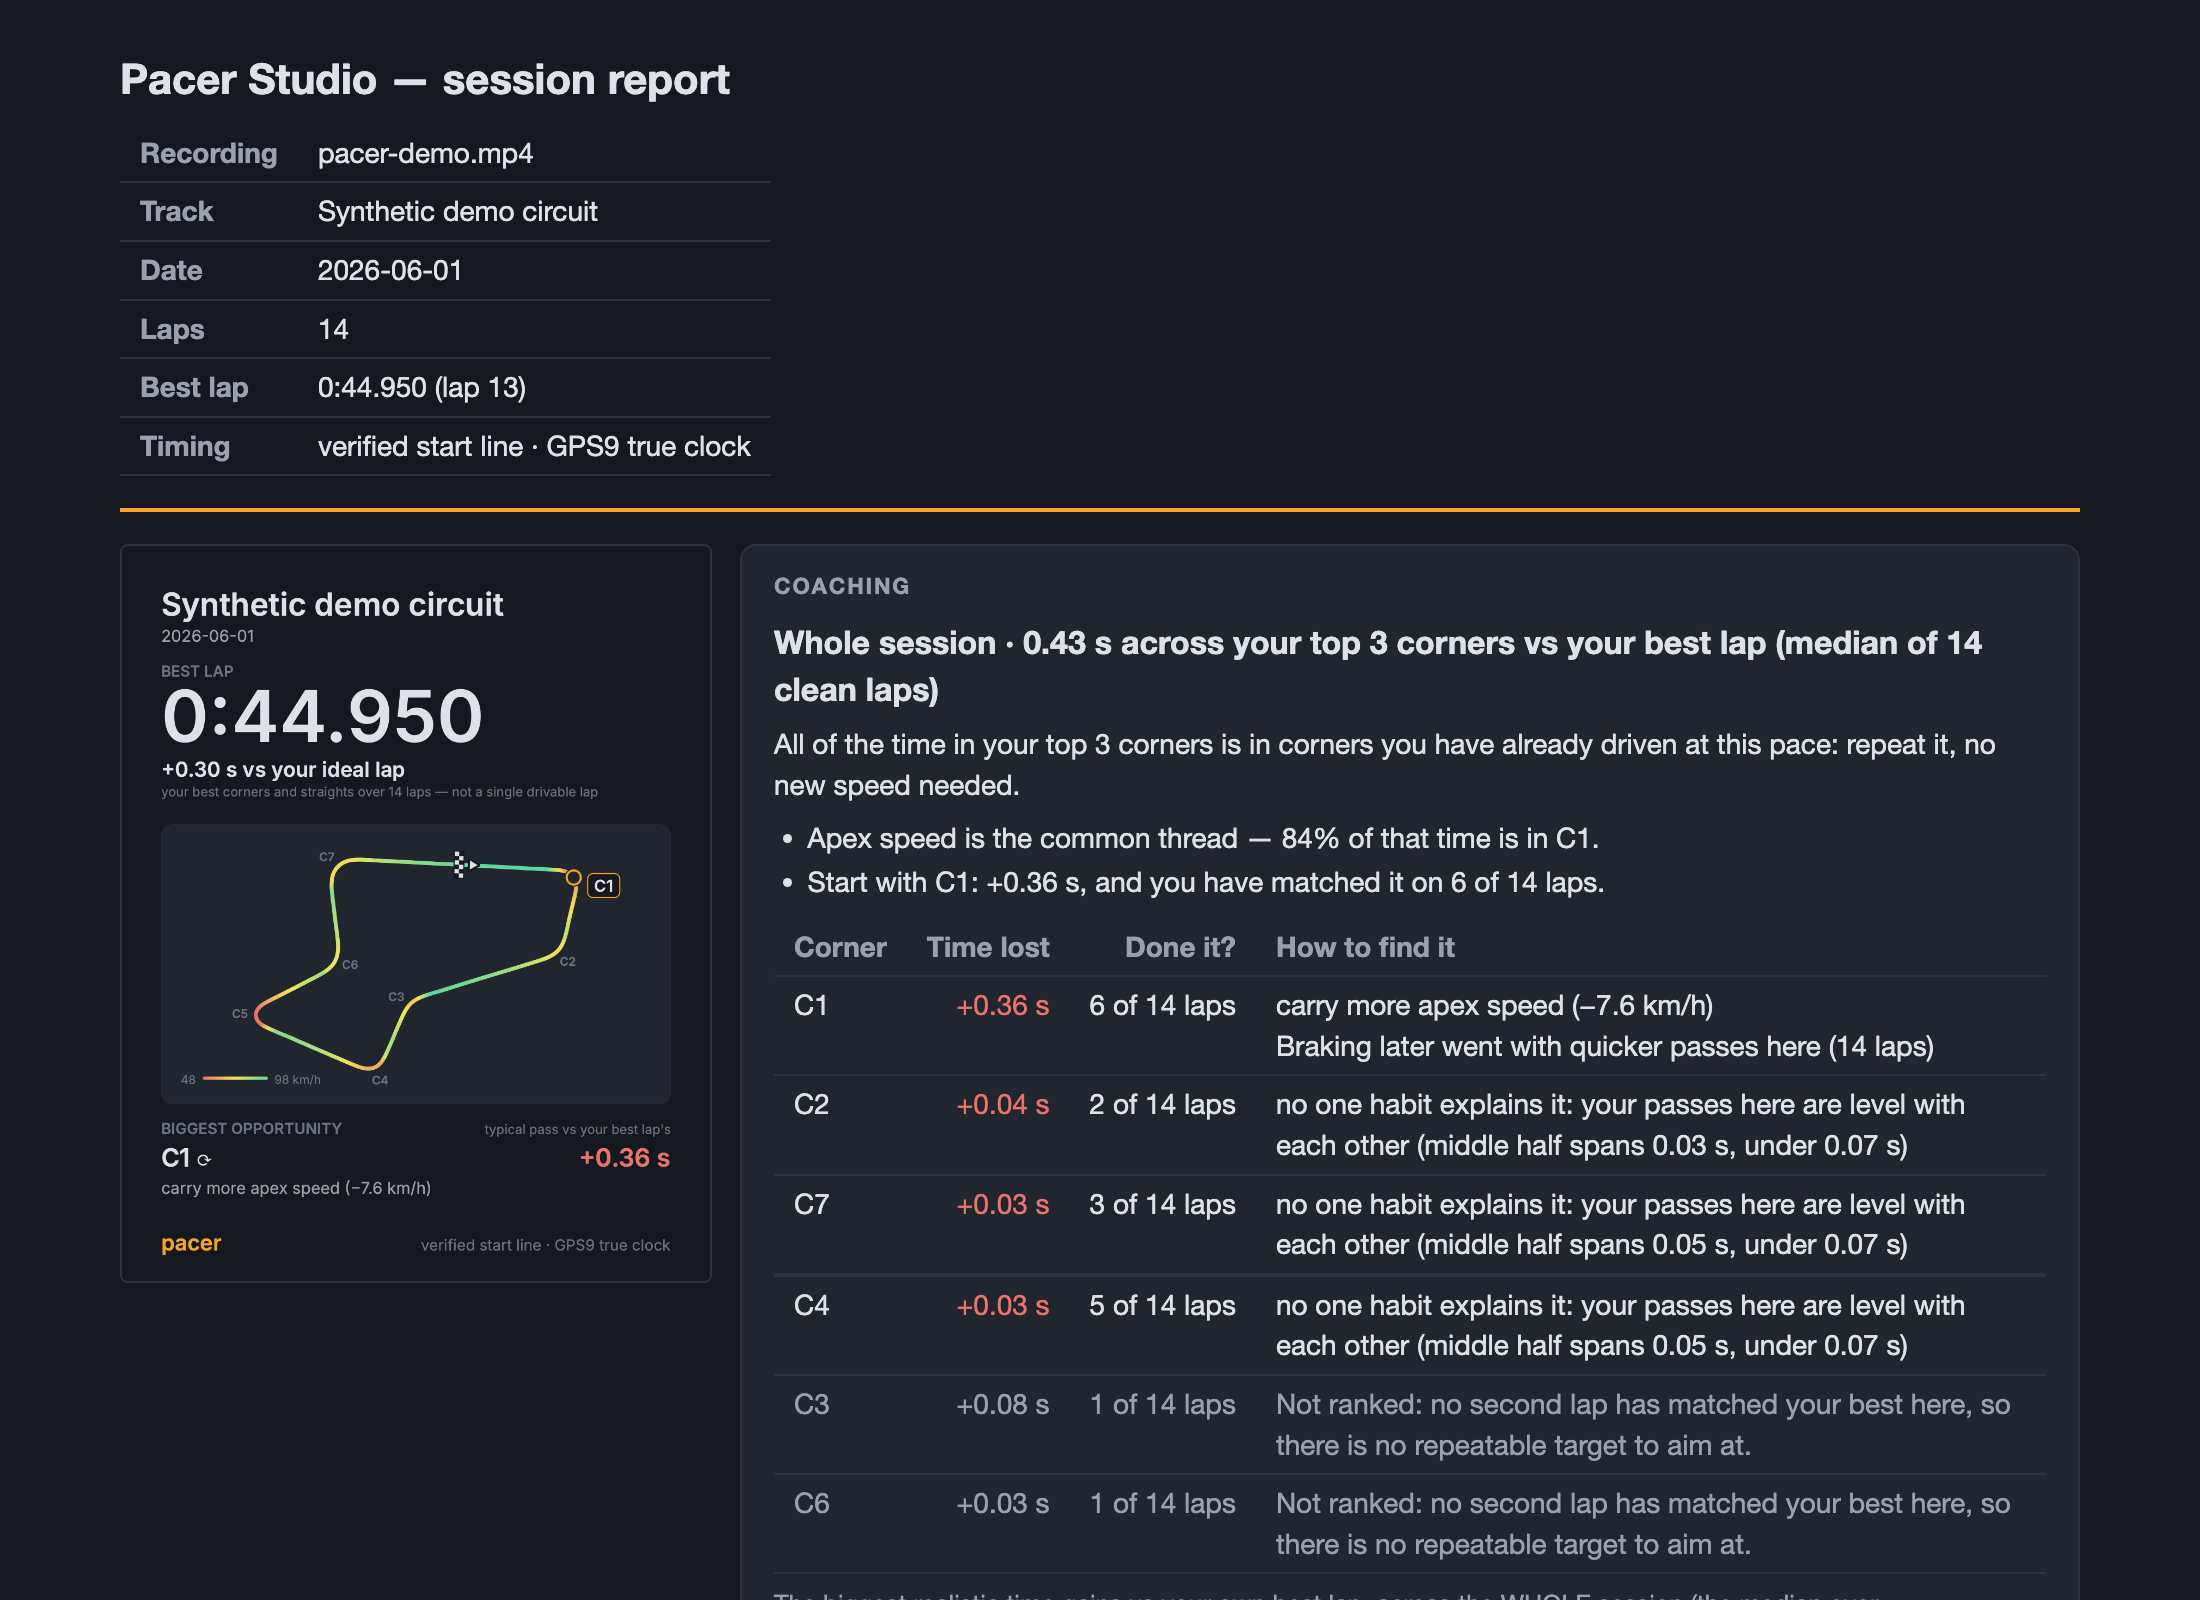
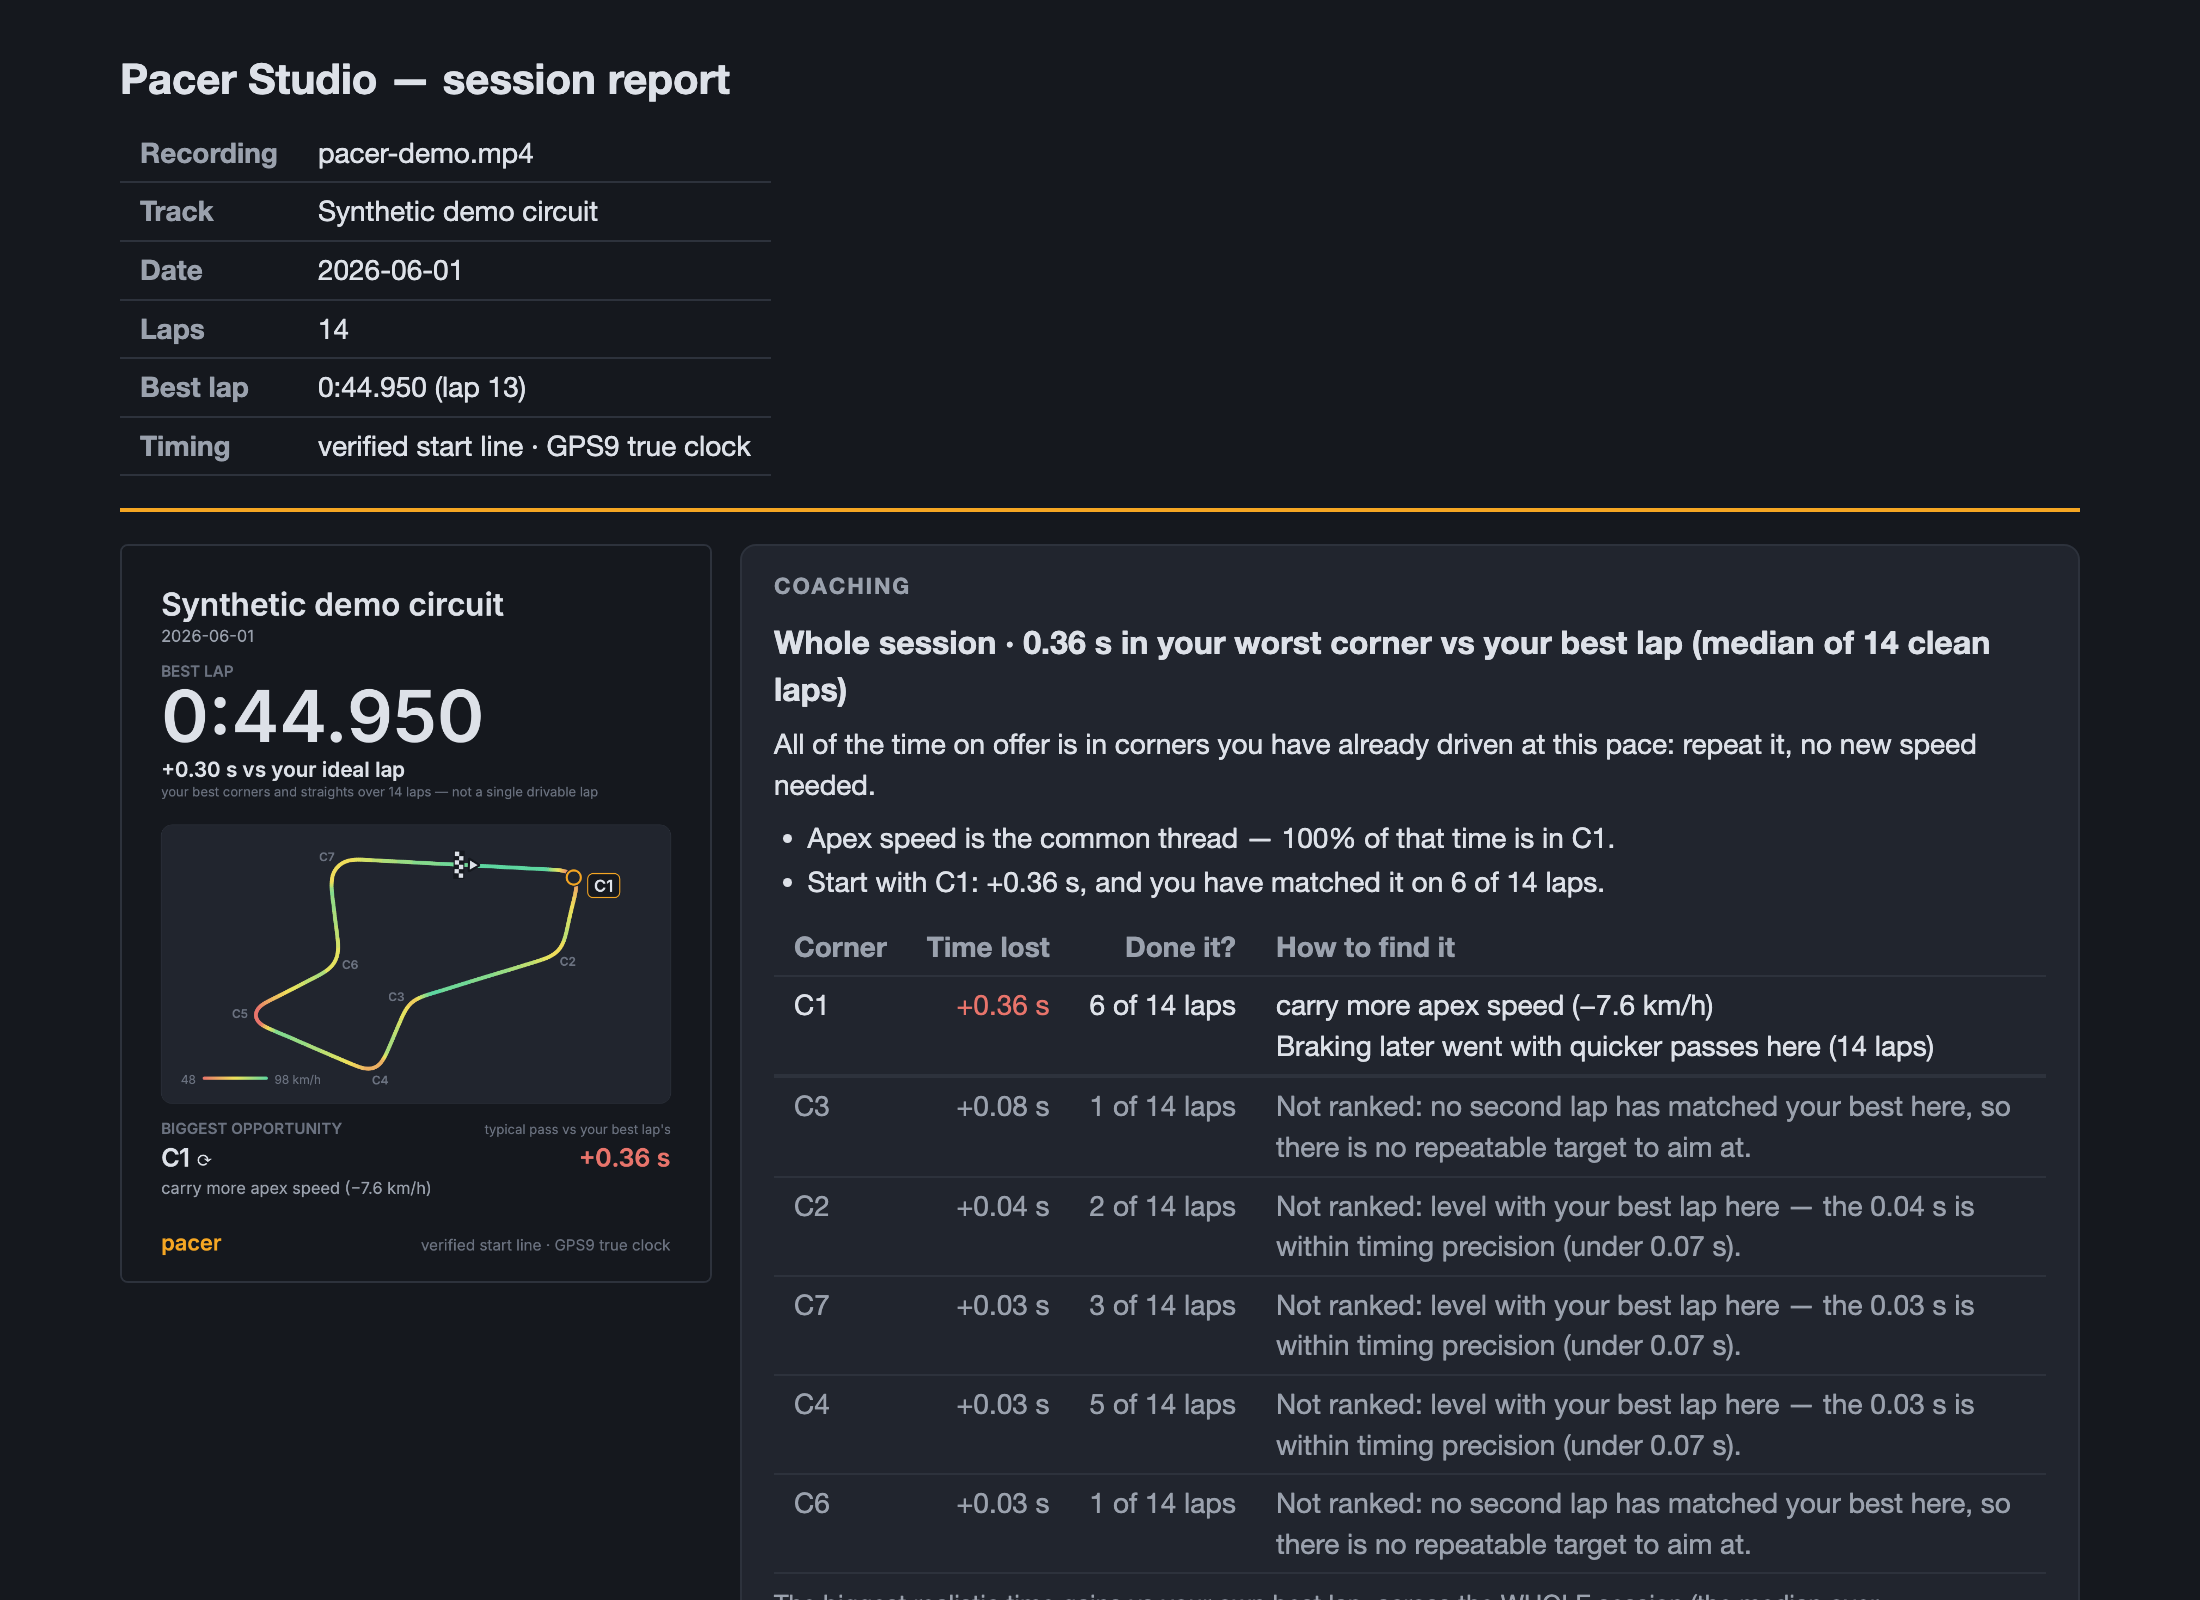
release 0.29.0: re-capture the demo stills, renew the waivers, true alt text
debrief.png and report.png change with #740 (one ranked corner), hero.png,
og.png and quickest.png with #737 (the GPS strip's hatched poor seconds,
64 px); map, moments, accuracy and lapstrip re-captured byte-identical.
The real-footage waivers are renewed with 0.29.0 A/Bs (export, ideal-lap
and data-trust demo renders byte-identical to v0.28.0's). The debrief and
report alts describe the new pictures; FIRST_LAP says a session with no
corner past the step opens on the four panels.

diff --git a/docs/index.html b/docs/index.html
@@ -476,7 +476,7 @@
       </figure>
       <figure class="figure">
         <img src="media/report.png" width="2200" height="1600" loading="lazy" decoding="async"
-             alt="The first screen of the synthetic demo's session report: the recording, track, date, 14 laps, best lap 0:44.950 (lap 13) and verified timing; the lap card with +0.30 s to the ideal lap and C1 +0.36 s as the biggest opportunity; and COACHING: 0.43 s across your top 3 corners, apex speed the common thread with 84% of that time in C1, and the ranked corners with their reasons.">
+             alt="The first screen of the synthetic demo's session report: the recording, track, date, 14 laps, best lap 0:44.950 (lap 13) and verified timing; the lap card with +0.30 s to the ideal lap and C1 +0.36 s as the biggest opportunity; and COACHING: 0.36 s in your worst corner, apex speed the common thread with all of that time in C1, its one ranked corner, and the corners held back as level with the best lap or not ranked, each with its reason.">
         <figcaption><strong>The session leaves the app as a page.</strong> File ▸ Export ▸ Session report (HTML)… writes one self-contained file that opens like the debrief: the lap card beside the Coaching page's answer, then the Stats page's story. This one is the synthetic demo's, so anyone can make it.</figcaption>
       </figure>
       <figure class="figure">

diff --git a/docs/FIRST_LAP.md b/docs/FIRST_LAP.md
@@ -58,7 +58,9 @@ track run the other way round keeps a record of its own), and Pacer has already 
 session's top corners (three at most) on that track's **focus list**, each with a baseline measured
 on this session and a **Remove** beside it: a default, not a decision. **Esc** returns to your usual
 layout. On timing Pacer calls estimated (a GPS5 camera's video clock, for one) it gives neither the
-line nor the list, because neither could be compared honestly.
+line nor the list, because neither could be compared honestly. A session where no corner loses more
+than the 0.07 s timing step has nothing to rank, so it opens on the four panels instead, with its
+personal-best card.
 
 That list is the loop. The next session you open at that track re-measures the same stretches and
 says, corner by corner, whether each got faster, got slower or stayed inside its own lap-to-lap
@@ -68,7 +70,7 @@ saying the two days were alike.
 The demo lands here on every open, and keeps nothing: no Library row, no personal best, and a focus
 list that lasts only while the demo is open.
 
-![The synthetic demo's debrief: the Coaching page full-window, led by the best lap's time beside its speed-coloured line with the focus corners ringed; under it a first line saying nothing is saved, the three corners Pacer put on the focus list with their baselines and a Remove for each, and the ranked corners with their reasons and a Jump to the video](media/debrief.png)
+![The synthetic demo's debrief: the Coaching page full-window, led by the best lap's time beside its speed-coloured line with its focus corner ringed; under it a first line saying nothing is saved, C1, the one corner Pacer put on the focus list, with its baseline and a Remove, and the one ranked corner with its reason and a Jump to the video](media/debrief.png)
 
 ## 4 · Read the lap
 

diff --git a/README.md b/README.md
@@ -102,7 +102,7 @@ lowers the ideal too, so part of the gap is timing luck.*
   recording's first open, once its timing is trusted, lands on it as a **debrief** and puts its top
   corners on the track's **focus list**, for the next session there to re-measure.
 
-<img src="docs/media/debrief.png" width="880" alt="The synthetic demo's first open, on its debrief: the Coaching page full-window, led by the best lap's time, large, beside its speed-coloured line with the focus corners ringed; under it a first line saying nothing is saved, the three corners Pacer put on the focus list with their baselines and a Remove for each, and the ranked corners with their reasons and a Jump to the video">
+<img src="docs/media/debrief.png" width="880" alt="The synthetic demo's first open, on its debrief: the Coaching page full-window, led by the best lap's time, large, beside its speed-coloured line with its focus corner ringed; under it a first line saying nothing is saved, C1, the one corner Pacer put on the focus list, with its baseline and a Remove, and the one ranked corner with its reason and a Jump to the video">
 
 - **Your quickest pass through each corner, one click from the video.** Corners ▸ **Quickest
   passes** lists each corner's quickest time and the lap it was on; a click plays that pass from

diff --git a/CHANGELOG.md b/CHANGELOG.md
@@ -50,9 +50,9 @@ All notable changes to Pacer are documented here. The format is based on
 ### Fixed
 
 - With no corner ranked, Coaching's note under the table no longer says every corner is listed: a
-  corner that loses under 0.005 s is not a row.
+  corner that loses under 0.005 s is not a row. (#741)
 - The first-open debrief says "from <day>'s top corner" when one corner is ranked, not "top
-  corners".
+  corners". (#741)
 - The lap panel's width no longer follows the Coaching headline's wording, and Quickest passes asks
   for the width its "Level with" words need whole. (#740)
 - A button you reach with Tab or ⇧Tab presses on Space, Return or Enter (once, even held); after a
